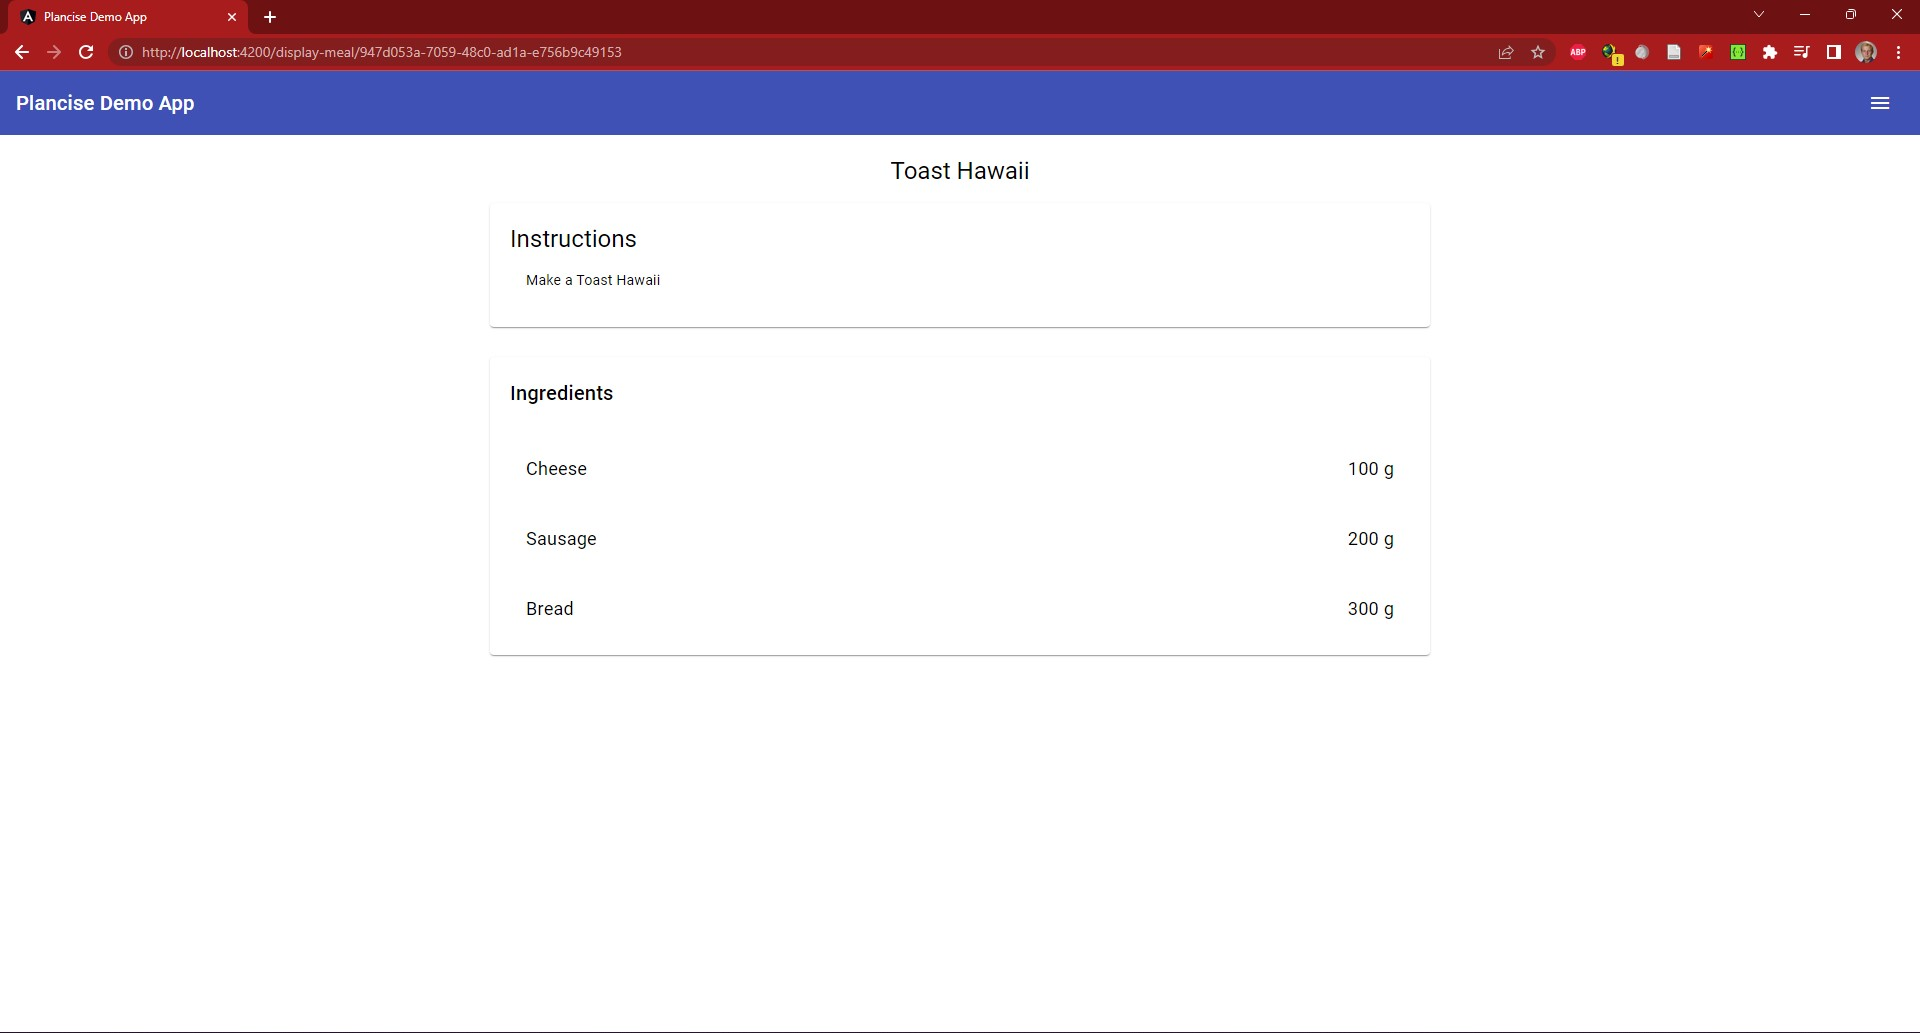
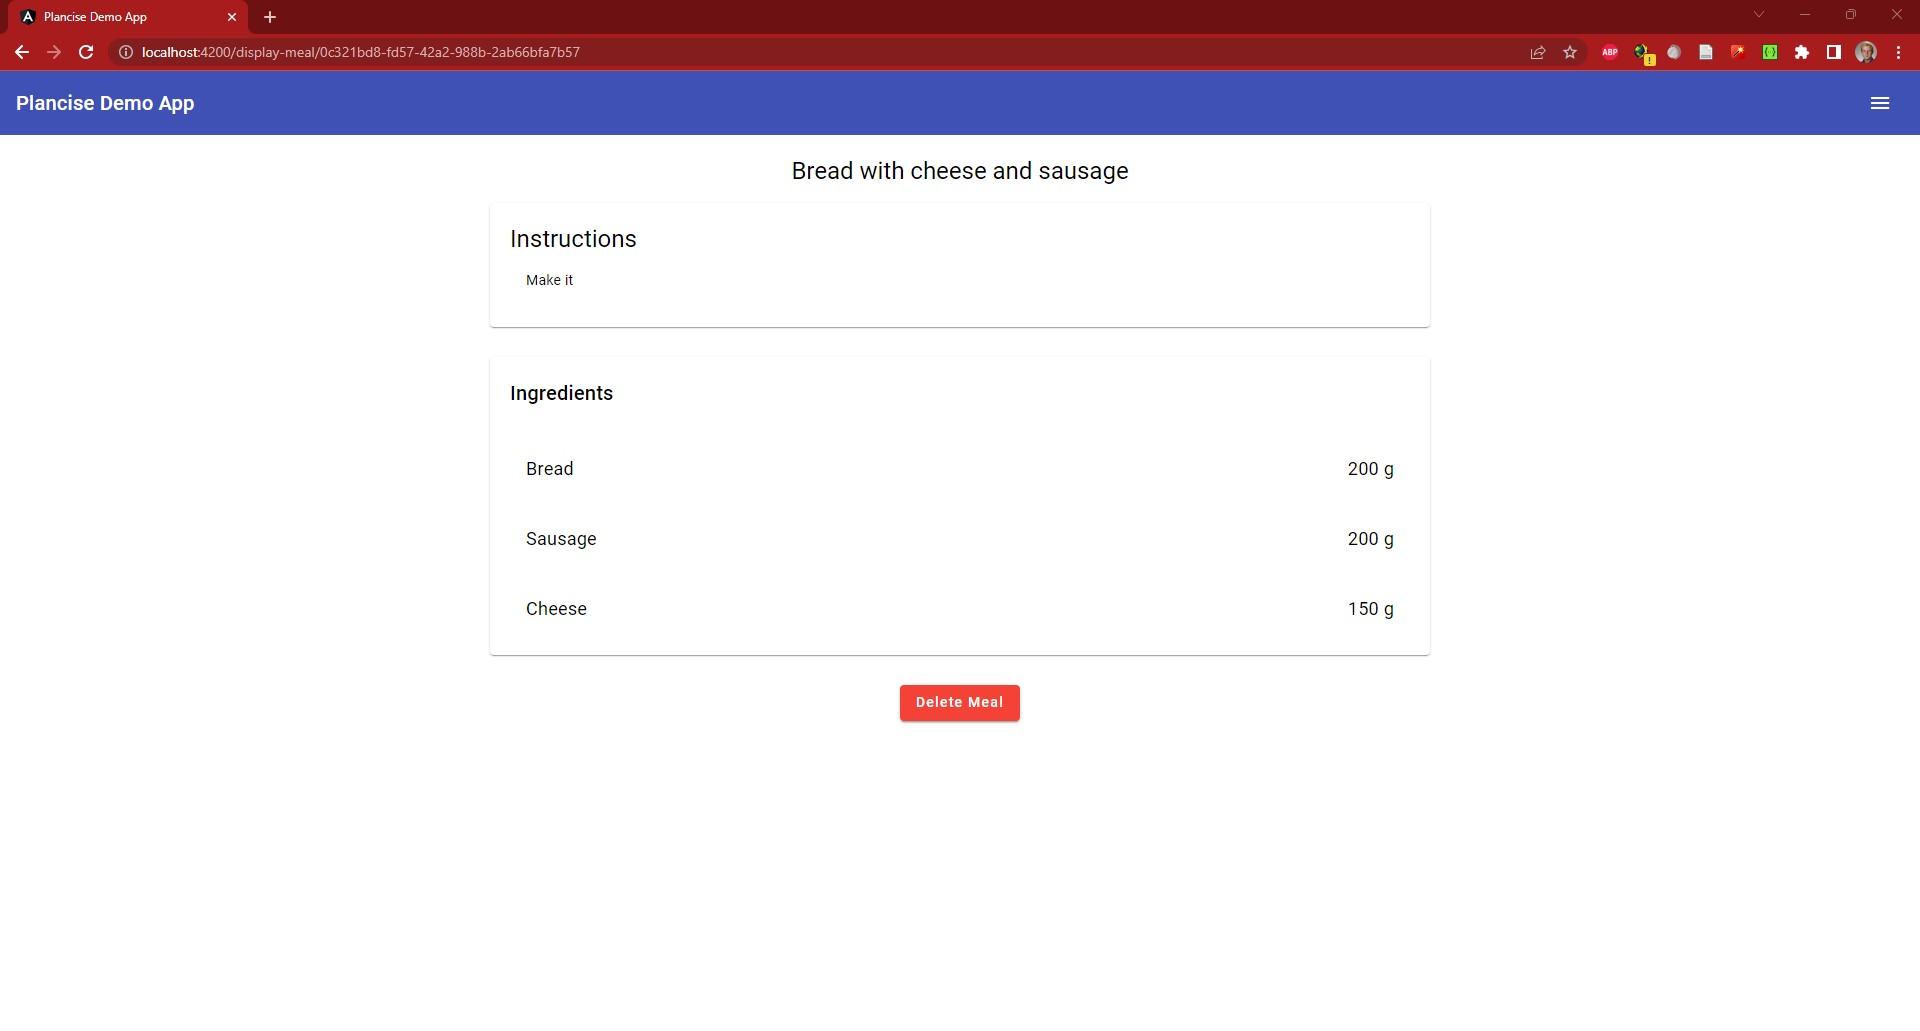
delete button

diff --git a/Frontend/src/app/display-meal/display-meal.component.ts b/Frontend/src/app/display-meal/display-meal.component.ts
@@ -1,7 +1,8 @@
 import { Component, OnInit, inject } from '@angular/core';
-import { ActivatedRoute } from '@angular/router';
+import { ActivatedRoute, Router } from '@angular/router';
 import { combineLatest, filter, map, share, switchMap } from 'rxjs';
 import { HttpService } from '../services/http.service';
+import { SnackbarComponent } from '../shared/snackbar/snackbar.component';
 
 @Component({
   selector: 'app-display-meal',
@@ -11,6 +12,8 @@ import { HttpService } from '../services/http.service';
 export class DisplayMealComponent {
   route = inject(ActivatedRoute);
   http = inject(HttpService);
+  snackbar = inject(SnackbarComponent);
+  router = inject(Router);
 
   meal$ = this.route.params.pipe(
     map((params) => params['mealId']),
@@ -24,4 +27,16 @@ export class DisplayMealComponent {
   );
 
   view$ = combineLatest([this.meal$, this.ingredients$]);
+
+  deleteMeal(id: string) {
+    this.http.deleteMeal(id).subscribe({
+      next: () => {
+        this.snackbar.openSnackBar("Meal deleted", "green-snackbar")
+        this.router.navigate(['home'])
+      },
+      error: () => {
+        this.snackbar.openSnackBar("Deleting failed. Try again.", "red-snackbar")
+      }
+    })
+  }
 }

diff --git a/Backend/src/controllers/meal.controller.ts b/Backend/src/controllers/meal.controller.ts
@@ -15,11 +15,11 @@ export async function getAllMeals(
   next: NextFunction
 ) {
 
-  let searchword: string  = ""
+  let searchword: string = ""
 
   if (req.query.q) searchword = String(req.query.q)
 
-  searchword = '%'+searchword+'%'
+  searchword = '%' + searchword + '%'
 
   try {
     const conn = await connect();
@@ -80,12 +80,25 @@ export async function createMeal(req: Request, res: Response) {
     //commit transaction
     connection.commit();
 
-    res.status(200).json({id:meal.id});
+    res.status(200).json({ id: meal.id });
   } catch (err: any) {
     console.log(connection);
     if (connection) await connection.rollback();
     await handleError(res, err);
   } finally {
     if (connection) connection.release();
+  }
+}
+
+export async function deleteMeal(req: Request, res: Response) {
+
+  var id: string = req.params.id;
+
+  try {
+    const conn = await connect();
+    await conn.query("DELETE FROM Meal WHERE id = ?", [id]);
+    res.json({ result: "success" });
+  } catch (err: any) {
+    handleError(res, err);
   }
 }

diff --git a/Backend/src/routes/meal.routes.ts b/Backend/src/routes/meal.routes.ts
@@ -1,9 +1,10 @@
 
 import { Router } from 'express'
-import { createMeal, getAllMeals, getMealById } from '../controllers/meal.controller'
+import { createMeal, deleteMeal, getAllMeals, getMealById } from '../controllers/meal.controller'
 export const mealRouter = Router();
 
 
 mealRouter.get('/', getAllMeals)
 mealRouter.post('/', createMeal)
 mealRouter.get('/:id', getMealById)
+mealRouter.delete('/:id', deleteMeal)

diff --git a/Frontend/src/app/services/http.service.ts b/Frontend/src/app/services/http.service.ts
@@ -30,6 +30,10 @@ export class HttpService {
     return this.http.post<any>(this.BASE_URL + 'meals', newMeal, {responseType: 'json', observe: 'body'})
   }
 
+  deleteMeal(id: string): Observable<any> {
+    return this.http.delete<any>(this.BASE_URL + 'meals/'+id)
+  }
+
   getIngredients(): Observable<Ingredient[]> {
     return this.http.get<Ingredient[]>(this.BASE_URL + 'ingredients');
   }

diff --git a/Backend/src/controllers/ingredient.controller.ts b/Backend/src/controllers/ingredient.controller.ts
@@ -65,7 +65,7 @@ export async function changeIngredient(req: Request, res: Response) {
 }
 
 export async function deleteIngredient(req: Request, res: Response) {
-  var id: string = req.params.projectId;
+  var id: string = req.params.id;
 
   try {
     const conn = await connect();

diff --git a/Frontend/src/app/display-meal/display-meal.component.html b/Frontend/src/app/display-meal/display-meal.component.html
@@ -25,5 +25,6 @@
         </div>
       </mat-card-content>
     </mat-card>
+    <button mat-raised-button color="warn" (click)="deleteMeal(view[0].id)">Delete Meal</button>
   </div>
 </div>
